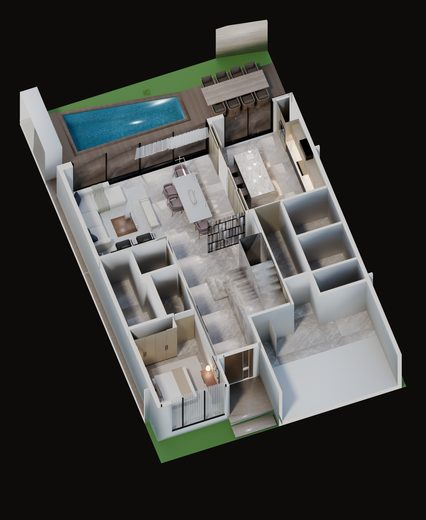
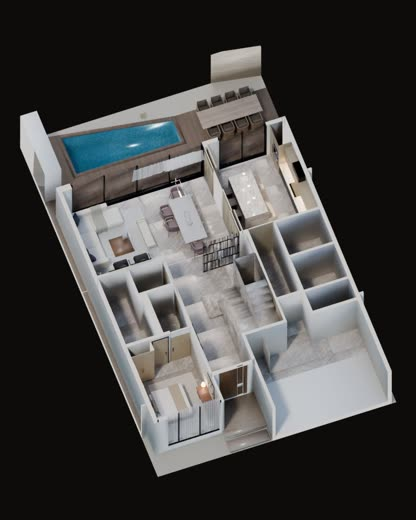
Maqueta giratoria de la planta baja
Se arrastra para girarla; los nombres siguen a cada espacio.

diff --git a/index.html b/index.html
@@ -352,7 +352,7 @@ body.cine-abierto .cine{opacity:1;visibility:visible;transition:opacity .4s ease
   </div>
 </div>
 
-<script src="media/maqueta/puntos.js?v=1"></script>
+<script src="media/maqueta/puntos.js?v=2"></script>
 <script>
 /* ═════════ Contenido: lo único que hay que tocar para cambiar textos, vistas o enlaces ═════════ */
 // Recorrido en video. «variantes» = la misma vista al atardecer y de noche; «una» = se reproduce una sola vez.
@@ -403,7 +403,7 @@ const MAQUETA = {
   baja: { 'hall':[47.23,55.18], 'sala':[28.67,38.97], 'comedor':[52.12,42.95], 'cocina':[65.93,32.28], 'terraza':[41.07,24.99], 'dormitorio-1':[44.47,68.4] },
   alta: { 'puente':[40.29,50.61], 'dormitorio-master':[44.7,36.39], 'bano-master':[65.97,33.42], 'vestidor-master':[71.48,42.21], 'sala-tv':[75.25,54.84], 'dormitorio-2':[45.21,68.78], 'dormitorio-3':[71.78,62.93] },
 };
-const VERSION = '7';   // se cambia al actualizar las imágenes 360 para que el navegador no use las viejas
+const VERSION = '8';   // se cambia al actualizar las imágenes 360 para que el navegador no use las viejas
 
 /* ═════════ Utilidades ═════════ */
 const $ = s => document.querySelector(s);
@@ -663,11 +663,12 @@ function irVista(id, sinHash) {
 }
 /* Maqueta giratoria: una serie de imágenes alrededor de la casa; los nombres siguen a cada cuarto en cada cuadro. */
 const GIRO = window.MAQUETA_GIRO || null;
+const gira = nombre => !!(GIRO && GIRO[nombre]);          // cada planta gira en cuanto tiene sus cuadros
 const lienzoM = $('#maquetaLienzo'), ctxM = lienzoM.getContext('2d');
 const serie = { baja:[], alta:[] };
 let cuadro = 0, autoGiro = 0, etiquetas = [];
 function cargarSerie(nombre) {
-  if (!GIRO || serie[nombre].length) return;
+  if (!gira(nombre) || serie[nombre].length) return;
   for (let k = 0; k < GIRO.n; k++) {
     const im = new Image();
     im.onload = () => { if (nombre === planta && k === cuadro) pintarCuadro(); };
@@ -676,6 +677,7 @@ function cargarSerie(nombre) {
   }
 }
 function pintarCuadro() {
+  if (!gira(planta)) return;
   const im = serie[planta][cuadro];
   if (im && im.complete && im.naturalWidth) {
     if (lienzoM.width !== im.naturalWidth) { lienzoM.width = im.naturalWidth; lienzoM.height = im.naturalHeight; }
@@ -684,13 +686,13 @@ function pintarCuadro() {
   const pos = GIRO[planta][cuadro];
   for (const e of etiquetas) { const [x, y] = pos[e.id]; e.b.style.left = x + '%'; e.b.style.top = y + '%'; }
 }
-function ponerCuadro(k) { cuadro = ((Math.round(k) % GIRO.n) + GIRO.n) % GIRO.n; pintarCuadro(); }
+function ponerCuadro(k) { if (!gira(planta)) return; cuadro = ((Math.round(k) % GIRO.n) + GIRO.n) % GIRO.n; pintarCuadro(); }
 function detenerAutoGiro() { clearInterval(autoGiro); autoGiro = 0; }
 (function arrastreMaqueta() {
   const caja = $('#maquetaCaja');
   let x0 = 0, k0 = 0, activo = false, vel = 0, ultimoX = 0, anim = 0;
   caja.addEventListener('pointerdown', e => {
-    if (!GIRO || e.target.closest('.ir')) return;
+    if (!gira(planta) || e.target.closest('.ir')) return;
     activo = true; x0 = ultimoX = e.clientX; k0 = cuadro; vel = 0; cancelAnimationFrame(anim); detenerAutoGiro();
     caja.classList.add('girando'); caja.setPointerCapture(e.pointerId); $('#pistaGiro').classList.add('fuera');
   });
@@ -714,14 +716,15 @@ function verMaqueta(nombre) {          // entrada a una planta: la maqueta con u
   document.body.dataset.tour = 'maqueta';
   document.body.classList.remove('plano-abierto');
   caja.classList.remove('acercando');
-  $('#maqueta').classList.toggle('gira', !!GIRO);
-  if (!GIRO) { $('#maquetaImg').src = `media/maqueta-${nombre}.jpg?v=${VERSION}`; $('#maquetaImg').alt = 'Maqueta de la ' + p.nombre.toLowerCase(); }
+  const conGiro = gira(nombre);
+  $('#maqueta').classList.toggle('gira', conGiro);
+  if (!conGiro) { $('#maquetaImg').src = `media/maqueta-${nombre}.jpg?v=${VERSION}`; $('#maquetaImg').alt = 'Maqueta de la ' + p.nombre.toLowerCase(); }
   caja.querySelectorAll('.ir').forEach(b => b.remove());
   etiquetas = [];
   deLaPlanta(nombre).forEach((v, k) => {
     const b = document.createElement('button');
     b.type = 'button'; b.className = 'ir esmerilado'; b.textContent = v.titulo;
-    if (!GIRO) { const [x, y] = MAQUETA[nombre][v.id]; b.style.left = x + '%'; b.style.top = y + '%'; }
+    if (!conGiro) { const [x, y] = MAQUETA[nombre][v.id]; b.style.left = x + '%'; b.style.top = y + '%'; }
     b.style.animationDelay = (0.25 + k * 0.06) + 's';
     b.addEventListener('pointerenter', () => { new Image().src = `media/360/${v.id}.jpg?v=${VERSION}`; });
     b.onclick = () => {
@@ -732,8 +735,8 @@ function verMaqueta(nombre) {          // entrada a una planta: la maqueta con u
     caja.appendChild(b);
     etiquetas.push({ id: v.id, b });
   });
-  if (GIRO) {
-    cargarSerie(nombre); pintarCuadro();
+  if (conGiro) {
+    cuadro = 0; cargarSerie(nombre); pintarCuadro();
     detenerAutoGiro();
     if (!window.matchMedia('(prefers-reduced-motion: reduce)').matches) {       // gira sola, despacio, hasta que alguien la toca
       autoGiro = setInterval(() => { if (modo === 'tour' && document.body.dataset.tour === 'maqueta') ponerCuadro(cuadro + 1); }, 170);
@@ -820,7 +823,7 @@ $('#cuentaAlta').textContent = deLaPlanta('alta').length + ' espacios';
 const inicial = location.hash.slice(1);      // se lee antes de arrancar: el exterior escribe su propio enlace
 irExterior(0);
 if (inicial && (vista(inicial) || PLANTAS[inicial] || EXTERIOR.some(v => v.id === inicial))) ir(inicial); else ponerModo('exterior');
-window.estado = () => ({ modo, tour: document.body.dataset.tour, cuadro, gira: !!GIRO, planta, vista: actual360 && actual360.id, exterior: EXTERIOR[ext].id, giro: +(giro * 180 / Math.PI).toFixed(1), textura: !!textura, enlaces: enlaces.length });
+window.estado = () => ({ modo, tour: document.body.dataset.tour, cuadro, gira: gira(planta), planta, vista: actual360 && actual360.id, exterior: EXTERIOR[ext].id, giro: +(giro * 180 / Math.PI).toFixed(1), textura: !!textura, enlaces: enlaces.length });
 </script>
 </body>
 </html>

diff --git a/media/maqueta/puntos.js b/media/maqueta/puntos.js
@@ -1,0 +1,2 @@
+// Posición de cada espacio en cada cuadro de la maqueta giratoria, en porcentaje [x, y]. Lo genera giro_web.py.
+window.MAQUETA_GIRO={"n":40,"baja":[{"hall":[50.08,62.8],"sala":[33.54,46.1],"comedor":[47.24,41.8],"cocina":[60.44,37.59],"terraza":[40.26,25.72],"dormitorio-1":[43.47,75.33]},{"hall":[52.39,62.63],"sala":[33.04,48.38],"comedor":[45.8,42.28],"cocina":[58.07,36.33],"terraza":[36.0,27.34],"dormitorio-1":[48.13,75.91]},{"hall":[54.64,62.15],"sala":[32.95,50.69],"comedor":[44.45,42.94],"cocina":[55.5,35.4],"terraza":[32.08,29.52],"dormitorio-1":[52.83,75.84]},{"hall":[56.78,61.37],"sala":[33.29,53.0],"comedor":[43.25,43.78],"cocina":[52.8,34.84],"terraza":[28.6,32.2],"dormitorio-1":[57.46,75.14]},{"hall":[58.75,60.32],"sala":[34.04,55.22],"comedor":[42.21,44.77],"cocina":[50.03,34.65],"terraza":[25.64,35.32],"dormitorio-1":[61.91,73.82]},{"hall":[60.5,59.0],"sala":[35.18,57.32],"comedor":[41.36,45.89],"cocina":[47.25,34.83],"terraza":[23.29,38.8],"dormitorio-1":[66.07,71.91]},{"hall":[62.0,57.47],"sala":[36.68,59.24],"comedor":[40.72,47.11],"cocina":[44.55,35.39],"terraza":[21.6,42.55],"dormitorio-1":[69.83,69.47]},{"hall":[63.2,55.75],"sala":[38.51,60.93],"comedor":[40.32,48.41],"cocina":[41.97,36.31],"terraza":[20.6,46.49],"dormitorio-1":[73.1,66.54]},{"hall":[64.08,53.89],"sala":[40.63,62.35],"comedor":[40.15,49.74],"cocina":[39.6,37.57],"terraza":[20.33,50.52],"dormitorio-1":[75.8,63.21]},{"hall":[64.61,51.94],"sala":[42.98,63.47],"comedor":[40.22,51.08],"cocina":[37.48,39.13],"terraza":[20.79,54.53],"dormitorio-1":[77.87,59.55]},{"hall":[64.78,49.93],"sala":[45.5,64.25],"comedor":[40.54,52.39],"cocina":[35.67,40.96],"terraza":[21.97,58.43],"dormitorio-1":[79.25,55.66]},{"hall":[64.59,47.93],"sala":[48.13,64.69],"comedor":[41.08,53.64],"cocina":[34.21,43.01],"terraza":[23.83,62.13],"dormitorio-1":[79.92,51.62]},{"hall":[64.03,45.98],"sala":[50.8,64.76],"comedor":[41.85,54.8],"cocina":[33.15,45.23],"terraza":[26.35,65.52],"dormitorio-1":[79.84,47.55]},{"hall":[63.13,44.13],"sala":[53.46,64.47],"comedor":[42.82,55.85],"cocina":[32.49,47.58],"terraza":[29.44,68.54],"dormitorio-1":[79.03,43.54]},{"hall":[61.91,42.42],"sala":[56.03,63.82],"comedor":[43.96,56.75],"cocina":[32.27,49.98],"terraza":[33.04,71.09],"dormitorio-1":[77.51,39.68]},{"hall":[60.4,40.9],"sala":[58.45,62.84],"comedor":[45.26,57.48],"cocina":[32.49,52.38],"terraza":[37.06,73.13],"dormitorio-1":[75.3,36.08]},{"hall":[58.63,39.61],"sala":[60.67,61.53],"comedor":[46.67,58.03],"cocina":[33.13,54.72],"terraza":[41.4,74.6],"dormitorio-1":[72.48,32.83]},{"hall":[56.64,38.57],"sala":[62.62,59.95],"comedor":[48.16,58.39],"cocina":[34.19,56.95],"terraza":[45.95,75.46],"dormitorio-1":[69.1,29.99]},{"hall":[54.5,37.81],"sala":[64.26,58.11],"comedor":[49.7,58.53],"cocina":[35.64,59.01],"terraza":[50.6,75.7],"dormitorio-1":[65.25,27.65]},{"hall":[52.24,37.35],"sala":[65.55,56.08],"comedor":[51.24,58.47],"cocina":[37.45,60.84],"terraza":[55.23,75.3],"dormitorio-1":[61.03,25.86]},{"hall":[49.92,37.2],"sala":[66.46,53.9],"comedor":[52.76,58.2],"cocina":[39.56,62.41],"terraza":[59.74,74.28],"dormitorio-1":[56.53,24.67]},{"hall":[47.61,37.37],"sala":[66.96,51.62],"comedor":[54.2,57.72],"cocina":[41.93,63.67],"terraza":[64.0,72.66],"dormitorio-1":[51.87,24.09]},{"hall":[45.36,37.85],"sala":[67.05,49.31],"comedor":[55.55,57.06],"cocina":[44.5,64.6],"terraza":[67.92,70.48],"dormitorio-1":[47.17,24.16]},{"hall":[43.22,38.63],"sala":[66.71,47.0],"comedor":[56.75,56.22],"cocina":[47.2,65.16],"terraza":[71.4,67.8],"dormitorio-1":[42.54,24.86]},{"hall":[41.25,39.68],"sala":[65.96,44.78],"comedor":[57.79,55.23],"cocina":[49.97,65.35],"terraza":[74.36,64.68],"dormitorio-1":[38.09,26.18]},{"hall":[39.5,41.0],"sala":[64.82,42.68],"comedor":[58.64,54.11],"cocina":[52.75,65.17],"terraza":[76.71,61.2],"dormitorio-1":[33.93,28.09]},{"hall":[38.0,42.53],"sala":[63.32,40.76],"comedor":[59.28,52.89],"cocina":[55.45,64.61],"terraza":[78.4,57.45],"dormitorio-1":[30.17,30.53]},{"hall":[36.8,44.25],"sala":[61.49,39.07],"comedor":[59.68,51.59],"cocina":[58.03,63.69],"terraza":[79.4,53.51],"dormitorio-1":[26.9,33.46]},{"hall":[35.92,46.11],"sala":[59.37,37.65],"comedor":[59.85,50.26],"cocina":[60.4,62.43],"terraza":[79.67,49.48],"dormitorio-1":[24.2,36.79]},{"hall":[35.39,48.06],"sala":[57.02,36.53],"comedor":[59.78,48.92],"cocina":[62.52,60.87],"terraza":[79.21,45.47],"dormitorio-1":[22.13,40.45]},{"hall":[35.22,50.07],"sala":[54.5,35.75],"comedor":[59.46,47.61],"cocina":[64.33,59.04],"terraza":[78.03,41.57],"dormitorio-1":[20.75,44.34]},{"hall":[35.41,52.07],"sala":[51.87,35.31],"comedor":[58.92,46.36],"cocina":[65.79,56.99],"terraza":[76.17,37.87],"dormitorio-1":[20.08,48.38]},{"hall":[35.97,54.02],"sala":[49.2,35.24],"comedor":[58.15,45.2],"cocina":[66.85,54.77],"terraza":[73.65,34.48],"dormitorio-1":[20.16,52.45]},{"hall":[36.87,55.87],"sala":[46.54,35.53],"comedor":[57.18,44.15],"cocina":[67.51,52.42],"terraza":[70.56,31.46],"dormitorio-1":[20.97,56.46]},{"hall":[38.09,57.58],"sala":[43.97,36.18],"comedor":[56.04,43.25],"cocina":[67.73,50.02],"terraza":[66.96,28.91],"dormitorio-1":[22.49,60.32]},{"hall":[39.6,59.1],"sala":[41.55,37.16],"comedor":[54.74,42.52],"cocina":[67.51,47.62],"terraza":[62.94,26.87],"dormitorio-1":[24.7,63.92]},{"hall":[41.37,60.39],"sala":[39.33,38.47],"comedor":[53.33,41.97],"cocina":[66.87,45.28],"terraza":[58.6,25.4],"dormitorio-1":[27.52,67.17]},{"hall":[43.36,61.43],"sala":[37.38,40.05],"comedor":[51.84,41.61],"cocina":[65.81,43.05],"terraza":[54.05,24.54],"dormitorio-1":[30.9,70.01]},{"hall":[45.5,62.19],"sala":[35.74,41.89],"comedor":[50.3,41.47],"cocina":[64.36,40.99],"terraza":[49.4,24.3],"dormitorio-1":[34.75,72.35]},{"hall":[47.76,62.65],"sala":[34.45,43.92],"comedor":[48.76,41.53],"cocina":[62.55,39.16],"terraza":[44.77,24.7],"dormitorio-1":[38.97,74.14]}]};
